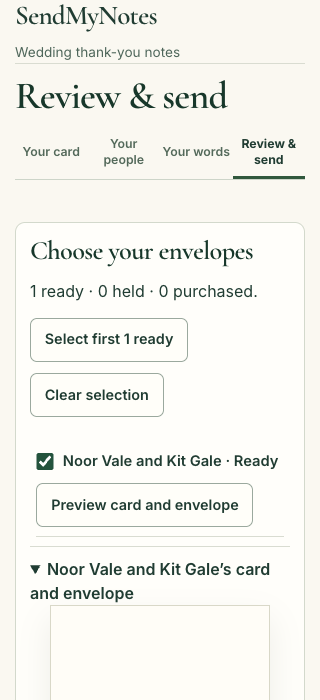
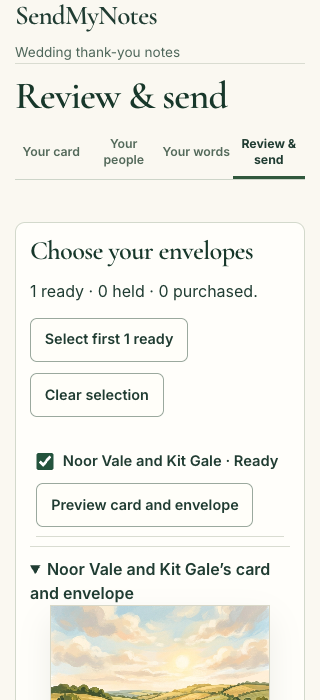
Publish final staging revision and independent hosted validation receipts

Changed region(s): [[0.1562, 0.84, 0.8438, 1.0]]

diff --git a/docs/sprints/evidence/SPRINT-0031/REVIEW.md b/docs/sprints/evidence/SPRINT-0031/REVIEW.md
@@ -31,7 +31,7 @@ Staging uses Stripe test mode and a supplier hold. The destination evidence incl
 | V3–V4 · List and gift intake | Hosted CSV, TSV, vCard, XLSX and plain text. The 100-household file contained 160 guests and replay added zero households. Both workbook sheets reconciled. A sender-selected prose excerpt yielded a real provider suggestion. A malformed workbook preserved the prior accepted front and rows. [Hosted intake](hosted-import.json) · [Parser decisions and limits](IMPORT.md) |
 | V5 · Writing | Hosted browser exercised two individually approved cards and 98 shared approvals. A shared edit reopened the 98 inheriting cards. Local regressions cover templates, approval fingerprints and unpublished AI suggestions. [Writing checks](hosted-ui/writing-checks.json) |
 | V6, V8, V10 · Payments and international | The financial runner reconciles two independent 98+2 projects, card snapshots, cumulative ordinals, the mixed H099 refund, and settlement without a return browser. Local fault fixtures cover capture races, retry, inclusive/added tax adapters and fair scheduling. A one-card project completed in the first scheduler pass while a 100-card project had materialized 20 cards. [Financial acceptance procedure](FINANCIAL-ACCEPTANCE.md) |
-| V7 · Access and compatibility | The hosted v1 transfer preserved a joint greeting, an explicitly blank greeting, the shared body and the original draft. Local regressions cover original checkout recovery and v1 checkout routes. The isolated dispatcher reads frozen paid cards from a disk-backed mock store. Two independent worker processes verified restart, a maximum of three attempts after confirmed non-acceptance, and quarantine of uncertain outcomes until reconciliation. [Transfer receipt](hosted-ui/transfer-checks.json) · [Local keyboard and magnification checks](local-ui/writing-checks.json) |
+| V7 · Access and compatibility | Build 015 passed all 15 Chrome checks, including 320-pixel layout, 200% magnification, keyboard approval, and focus on the next household. The hosted v1 transfer preserved a joint greeting, an explicitly blank greeting, the shared body and the original draft. Local regressions cover original checkout recovery and v1 checkout routes. The isolated dispatcher reads frozen paid cards from a disk-backed mock store. Two independent worker processes verified restart, a maximum of three attempts after confirmed non-acceptance, and quarantine of uncertain outcomes until reconciliation. [Transfer receipt](hosted-ui/transfer-checks.json) · [Hosted keyboard and magnification checks](hosted-ui/writing-checks.json) |
 | V9 · Fit and privacy | Whole-note boundaries of 449, 450 and 451 UTF-16 units, private export, grant revocation and preservation of paid artwork. Staging Firestore denies browser access. The private bucket enforces public access prevention. Pending objects have a seven-day lifecycle backstop. Deleted objects have an additional seven-day operator recovery window under the bucket’s existing soft-delete policy. [Platform checks](platform.json) · [Bucket policy](bucket-retention.json) |
 | V11 · AI and uploads | File submission and AI require a project-scoped pilot invite or a linked approved account. Local tests exercise hard parser limits, rejection, untrusted input, stale revisions, idempotency, uncertain provider calls and manual recovery. The first hosted checkpoint exposed a retired text model. The replacement completed real mapping and note generation on staging. The invited guest paused at five and resumed to 100 distinct, unapproved suggested bodies. An original illustration and a photo treatment both succeeded. A third image required sign-in before reserving cost. [First checkpoint](hosted-31a-import.json) · [Hosted intake](hosted-import.json) · [Bulk AI and images](hosted-bulk-ai.json) |
 | V12 · Delegated permissions | Two disposable verified accounts exercised export-only, pay-only and combined grants. Owner/partner concurrent attempts produced one reservation. Removing the payer’s grant canceled an open Stripe test intent through scheduled reconciliation. The synthetic Firebase users were removed. [Hosted permission checks](hosted-checkout-sharing.json) |
@@ -42,8 +42,10 @@ The automated writing, import, private-storage and Stripe runs use only fictiona
 
 ## Release and operations
 
+Firebase App Hosting build 015 succeeded for Git commit `3d9d8ff47eb585c82c56e1d713b44bcecbd550e9`. App Hosting and Cloud Run each reported 100% traffic on that revision. Both /thank-you and /thank-you/wedding returned HTTP 200 on the custom staging hostname. On that revision the five import formats, real AI-assisted intake, sharing controls and existing paid manifests were checked again. [Final deployment](hosted-final-rollout.json) · [Final smoke checks](final-regressions.json)
+
 The writing checkpoint and checkout checkpoint ran on the existing Firebase App Hosting staging backend. Only staging received the wedding release flags. The existing daily private-upload cleanup runs alongside a separate every-minute wedding reconciliation job. A 180-day draft window and a seven-day cleanup grace period apply to private project data. The cleanup verifies frozen purchases before retiring remaining unpaid drafts. It retains the identifiers required to reconcile an ambiguous provider invocation. No fulfillment script was run.
 
-The final local release gate passed all 10 wedding test files, TypeScript checking and the production build. The original contact parser, single checkout recovery, multi-send checkout and upload security regressions also passed. The mock dispatcher has no HTTP endpoint or supplier client.
+The final local release gate passed all 10 wedding test files, TypeScript checking and the production build. The original contact parser, single checkout recovery, multi-send checkout, international pricing and address UI, upload security and creative upload regressions also passed. The mock dispatcher has no HTTP endpoint or supplier client.
 
-The pilot uses bounded parsing, type checks and photo normalization for accepted formats. It uses no custom antivirus scanner. The workbook parser changed to yauzl and saxes after the originally proposed reader returned zero rows for the supplied workbook. Spend figures from the app are conservative quota reservations; provider settlement or billing exports are needed for invoiced cost. [Local verification contract](CORE.md) · [31A deployment](hosted-31a-rollout.json) · [31B deployment](hosted-31b-rollout.json)
+Project, device and deployment quotas constrain pilot AI requests. IP-based throttling remains disabled until the staging proxy chain can be verified. The pilot uses bounded parsing, type checks and photo normalization for accepted formats. It uses no custom antivirus scanner. The workbook parser changed to yauzl and saxes after the originally proposed reader returned zero rows for the supplied workbook. Spend figures from the app are conservative quota reservations; provider settlement or billing exports are needed for invoiced cost. [Local verification contract](CORE.md) · [31A deployment](hosted-31a-rollout.json) · [31B deployment](hosted-31b-rollout.json)

diff --git a/docs/sprints/evidence/SPRINT-0031/UI.md b/docs/sprints/evidence/SPRINT-0031/UI.md
@@ -2,7 +2,7 @@
 
 The guest writing exercise opens the staging homepage, follows **Thank-you notes** from the general sending page, and creates private synthetic projects through the same buttons available to a sender. Its receipts contain counts and outcomes. The screenshots show fictional households.
 
-| Exercise | Observed on staging build 012 |
+| Exercise | Observed result |
 | --- | --- |
 | Start and resume | A new project opened empty. A guest added an envelope and inside names, refreshed, and recovered the same approved card in a second browser context. The recovery page cleared the token from the address bar. |
 | Personal and shared writing | Two sample households received individual wording and approvals. One shared approval covered the other 98. A subsequent change to the shared body reopened those 98 and preserved the two individual approvals. |
@@ -14,12 +14,14 @@ The guest writing exercise opens the staging homepage, follows **Thank-you notes
 **Observed friction and retests**
 
 - On build 011, switching directly from a newly typed shared body into a personal edit could raise a concurrent-edit notice for the same sender. The editor now finishes saving the shared revision before opening an individual edit. The two-personal-plus-98-shared exercise passed on build 012.
-- Keyboard testing found that moving to the next household could return focus to the page body. The editor now focuses the new heading after React commits the household change. Local Chrome verified that Enter advances focus and announces the approval. The same run exercised separate photo and guest-list controls via keyboard and mobile review at 200% magnification.
+- Keyboard testing found that moving to the next household could return focus to the page body. The editor now focuses the new heading after React commits the household change. Chrome verified that Enter advances focus and announces the approval both locally and on staging build 015. Both runs exercised separate photo and guest-list controls via keyboard and mobile review at 200% magnification.
 
 **Records**
 
 - [Hosted writing receipt](hosted-ui/writing-checks.json), [two-recipient transfer receipt](hosted-ui/transfer-checks.json), [100-household desktop](hosted-ui/writing-100-households.png) and [320-pixel mobile review](hosted-ui/review-mobile.png).
 - [Local browser receipt](local-ui/writing-checks.json), [writing test](../../../../scripts/wedding/check-writing-ui.cjs) and [transfer test](../../../../scripts/wedding/check-transfer-ui.cjs).
 - [Private paid-card verification](hosted-paid-cover.json) and [resumable staging verifier](hosted-paid-cover.mjs). This separate V2 fixture captured one $9 Stripe test payment for held fulfillment.
+
+The 15 writing checks and the two-envelope transfer passed against staging build 015, revision `3d9d8ff`. The paid-card verification used build 012. The final browser retest did not initiate a purchase.
 
 The exercises automate Chrome with synthetic data. Founder and tester observation sessions remain a separate, pending usability milestone.
